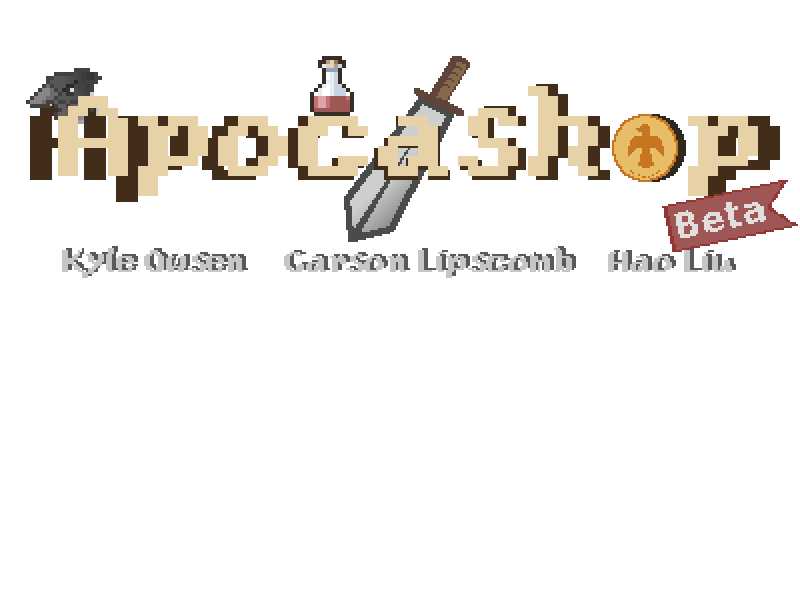
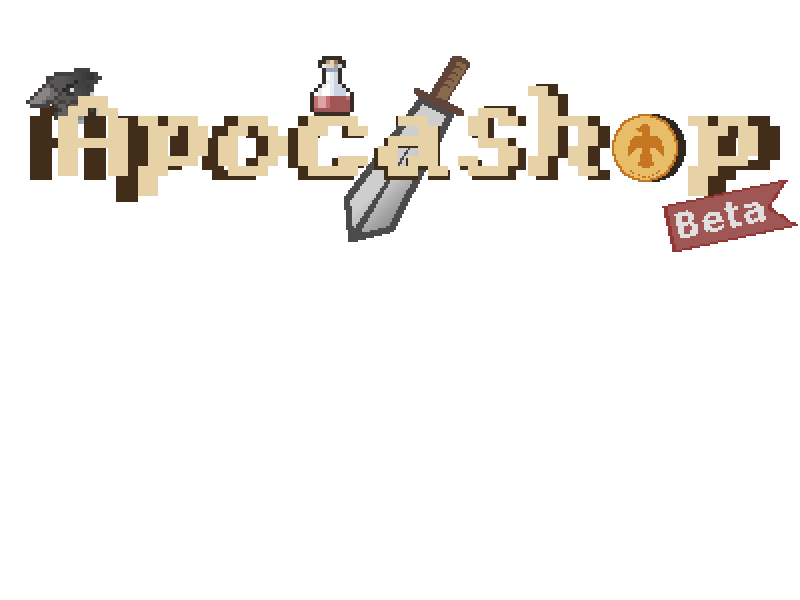
title screen improvement

Changed region(s): [[0.3438, 0.39, 0.7188, 0.48], [0.0625, 0.39, 0.3125, 0.48], [0.75, 0.42, 0.9375, 0.45]]

diff --git a/game/js/DisplayManager.js b/game/js/DisplayManager.js
@@ -94,6 +94,8 @@ function DisplayManager(game) {
 	this.putTitleScreen = function() {
 		var title = game.add.sprite(0, 0, 'gp_title');
 		var clickStart = game.add.sprite(400, 400, 'gp_clickstart');
+		var dev = game.add.sprite(400, 590, 'gp_dev');
+		
 		title.alpha = 0;
 		clickStart.alpha = 0;
 		clickStart.anchor.setTo(0.5, 0.5);
@@ -107,6 +109,7 @@ function DisplayManager(game) {
 		title.fadeIn = game.add.tween(title).to({
 			alpha: 1
 		}, 300, Phaser.Easing.Quadratic.None, true);;
+		dev.anchor.setTo(0.5, 1);
 	};
 
 	function starCloudClicked() {

diff --git a/game/js/AssetManager.js b/game/js/AssetManager.js
@@ -23,6 +23,7 @@ function AssetManager(game) {
 		'gameplay': [
 			'gp_title',
 			'gp_clickstart',
+			'gp_dev',
 			'gp_background',
 			'gp_background_town',
 			'gp_background_sky',
